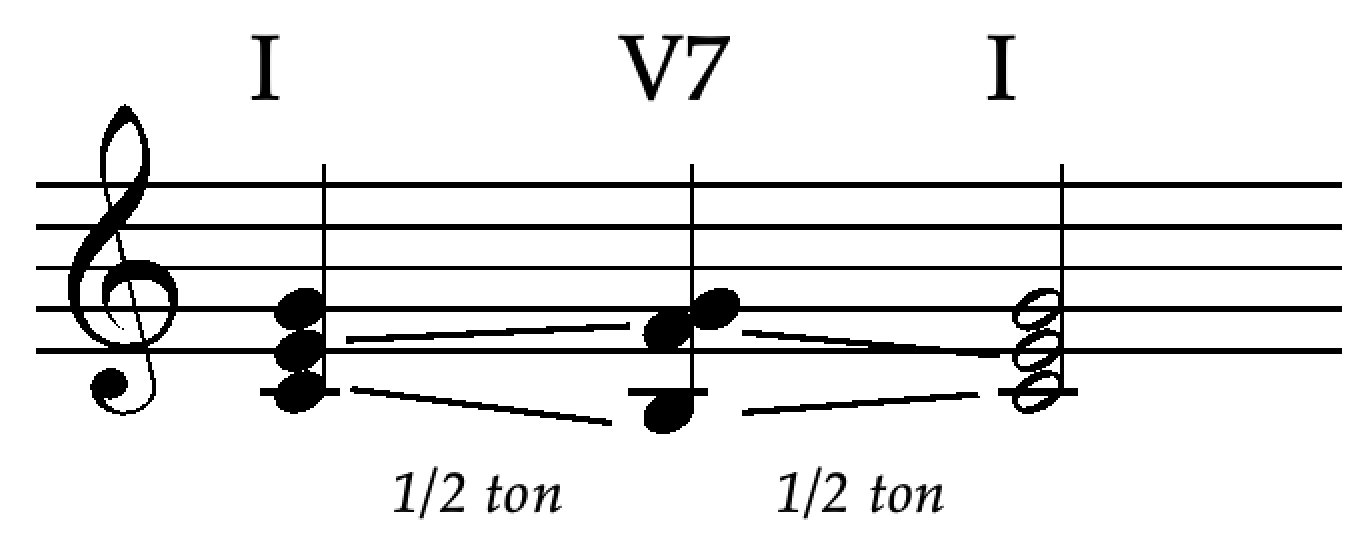
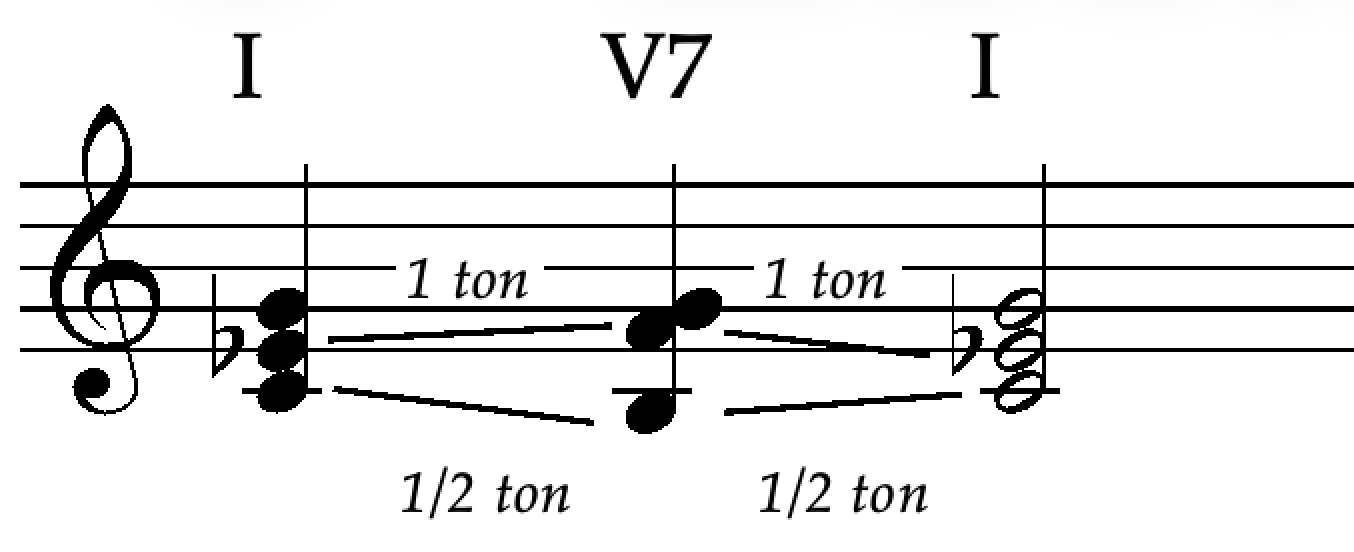
Add files via upload

diff --git a/index.html b/index.html
@@ -1,1 +1,1 @@
-<!doctype html><html lang="fr"><head><meta charset="utf-8"><meta name="viewport" content="width=device-width,initial-scale=1"><title>I – V7 – I · 12 tonalités</title><style>body{font-family:system-ui,sans-serif;max-width:850px;margin:40px auto;padding:0 20px;text-align:center;color:#20242a}h1{font-size:1.5rem}#display{font-size:clamp(2.6rem,8vw,5rem);font-weight:700;margin:30px 0;min-height:1.4em}#model{max-width:100%;max-height:290px;object-fit:contain}button{font:inherit;padding:12px 20px;margin:6px;border:1px solid #aaa;border-radius:10px;background:#f5f5f5;cursor:pointer}button.primary{background:#172b4d;color:white}#bar{height:10px;background:#e4e6e9;border-radius:9px;overflow:hidden;margin:20px auto;max-width:450px}#fill{height:100%;width:0;background:#355d95}#status{color:#555}label{display:inline-block;margin:10px}input{width:75px;padding:7px;font:inherit}</style></head><body><h1>Enchaînement I – V7 – I</h1><section id="intro"><p><strong>Effectuer ceci dans la tonalité demandée :</strong></p><img id="model" src="modele.png" alt="Modèle musical de l'enchaînement I – V7 – I avec mouvement des voix par demi-ton"></section><div id="display" aria-live="polite"></div><p id="status">12 tonalités majeures · ordre aléatoire sans répétition</p><div id="bar"><div id="fill"></div></div><label>Durée (secondes) <input id="seconds" type="number" min="2" max="30" value="6"></label><div><button class="primary" id="start">Démarrer</button><button id="pause" disabled>Pause</button><button id="reset">Recommencer</button></div><script>const notes=['Do majeur','Ré♭ majeur','Ré majeur','Mi♭ majeur','Mi majeur','Fa majeur','Fa♯ majeur','Sol majeur','La♭ majeur','La majeur','Si♭ majeur','Si majeur'];let deck=[],index=-1,running=false,elapsed=0,last=0,frame=0;const display=document.querySelector('#display'),status=document.querySelector('#status'),fill=document.querySelector('#fill'),intro=document.querySelector('#intro'),start=document.querySelector('#start'),pause=document.querySelector('#pause'),seconds=document.querySelector('#seconds');function shuffle(){deck=[...notes];for(let i=deck.length-1;i>0;i--){let j=Math.floor(Math.random()*(i+1));[deck[i],deck[j]]=[deck[j],deck[i]]}}function duration(){return Math.max(2,Math.min(30,Number(seconds.value)||6))*1000}function next(){index++;elapsed=0;fill.style.width='0%';if(index>=deck.length){running=false;display.textContent='Terminé !';status.textContent='12 tonalités parcourues';start.disabled=false;pause.disabled=true;return}display.textContent=deck[index];status.textContent=`Tonalité ${index+1} / 12`}function tick(t){if(!running)return;if(!last)last=t;elapsed+=t-last;last=t;const d=duration();if(elapsed>=d){next();if(!running)return}fill.style.width=Math.min(100,elapsed/d*100)+'%';frame=requestAnimationFrame(tick)}function play(){if(index<0||index>=deck.length){shuffle();index=-1;next()}intro.hidden=true;running=true;last=0;start.disabled=true;pause.disabled=false;pause.textContent='Pause';frame=requestAnimationFrame(tick)}start.addEventListener('click',play);pause.addEventListener('click',()=>{if(running){running=false;cancelAnimationFrame(frame);pause.textContent='Reprendre'}else{running=true;last=0;pause.textContent='Pause';frame=requestAnimationFrame(tick)}});document.querySelector('#reset').addEventListener('click',()=>{running=false;cancelAnimationFrame(frame);index=-1;elapsed=0;last=0;intro.hidden=false;display.textContent='';status.textContent='12 tonalités majeures · ordre aléatoire sans répétition';fill.style.width='0%';start.disabled=false;pause.disabled=true;pause.textContent='Pause'});</script></body></html>
+<!doctype html><html lang="fr"><head><meta charset="utf-8"><meta name="viewport" content="width=device-width,initial-scale=1"><title>i – V7 – i · 12 tonalités</title><style>body{font-family:system-ui,sans-serif;max-width:850px;margin:40px auto;padding:0 20px;text-align:center;color:#20242a}h1{font-size:1.5rem}#display{font-size:clamp(2.6rem,8vw,5rem);font-weight:700;margin:30px 0;min-height:1.4em}#model{max-width:100%;max-height:290px;object-fit:contain}button{font:inherit;padding:12px 20px;margin:6px;border:1px solid #aaa;border-radius:10px;background:#f5f5f5;cursor:pointer}button.primary{background:#172b4d;color:white}#bar{height:10px;background:#e4e6e9;border-radius:9px;overflow:hidden;margin:20px auto;max-width:450px}#fill{height:100%;width:0;background:#355d95}#status{color:#555}label{display:inline-block;margin:10px}input{width:75px;padding:7px;font:inherit}</style></head><body><h1>Enchaînement i – V7 – i</h1><section id="intro"><p><strong>Effectuer ceci dans la tonalité demandée :</strong></p><img id="model" src="modele.png" alt="Modèle musical de l'enchaînement i – V7 – i avec mouvement des voix par ton et demi-ton"></section><div id="display" aria-live="polite"></div><p id="status">12 tonalités mineures · ordre aléatoire sans répétition</p><div id="bar"><div id="fill"></div></div><label>Durée (secondes) <input id="seconds" type="number" min="2" max="30" value="6"></label><div><button class="primary" id="start">Démarrer</button><button id="pause" disabled>Pause</button><button id="reset">Recommencer</button></div><script>const notes=['Do mineur','Do♯ mineur','Ré mineur','Mi♭ mineur','Mi mineur','Fa mineur','Fa♯ mineur','Sol mineur','Sol♯ mineur','La mineur','Si♭ mineur','Si mineur'];let deck=[],index=-1,running=false,elapsed=0,last=0,frame=0;const display=document.querySelector('#display'),status=document.querySelector('#status'),fill=document.querySelector('#fill'),intro=document.querySelector('#intro'),start=document.querySelector('#start'),pause=document.querySelector('#pause'),seconds=document.querySelector('#seconds');function shuffle(){deck=[...notes];for(let i=deck.length-1;i>0;i--){let j=Math.floor(Math.random()*(i+1));[deck[i],deck[j]]=[deck[j],deck[i]]}}function duration(){return Math.max(2,Math.min(30,Number(seconds.value)||6))*1000}function next(){index++;elapsed=0;fill.style.width='0%';if(index>=deck.length){running=false;display.textContent='Terminé !';status.textContent='12 tonalités parcourues';start.disabled=false;pause.disabled=true;return}display.textContent=deck[index];status.textContent=`Tonalité ${index+1} / 12`}function tick(t){if(!running)return;if(!last)last=t;elapsed+=t-last;last=t;const d=duration();if(elapsed>=d){next();if(!running)return}fill.style.width=Math.min(100,elapsed/d*100)+'%';frame=requestAnimationFrame(tick)}function play(){if(index<0||index>=deck.length){shuffle();index=-1;next()}intro.hidden=true;running=true;last=0;start.disabled=true;pause.disabled=false;pause.textContent='Pause';frame=requestAnimationFrame(tick)}start.addEventListener('click',play);pause.addEventListener('click',()=>{if(running){running=false;cancelAnimationFrame(frame);pause.textContent='Reprendre'}else{running=true;last=0;pause.textContent='Pause';frame=requestAnimationFrame(tick)}});document.querySelector('#reset').addEventListener('click',()=>{running=false;cancelAnimationFrame(frame);index=-1;elapsed=0;last=0;intro.hidden=false;display.textContent='';status.textContent='12 tonalités mineures · ordre aléatoire sans répétition';fill.style.width='0%';start.disabled=false;pause.disabled=true;pause.textContent='Pause'});</script></body></html>
